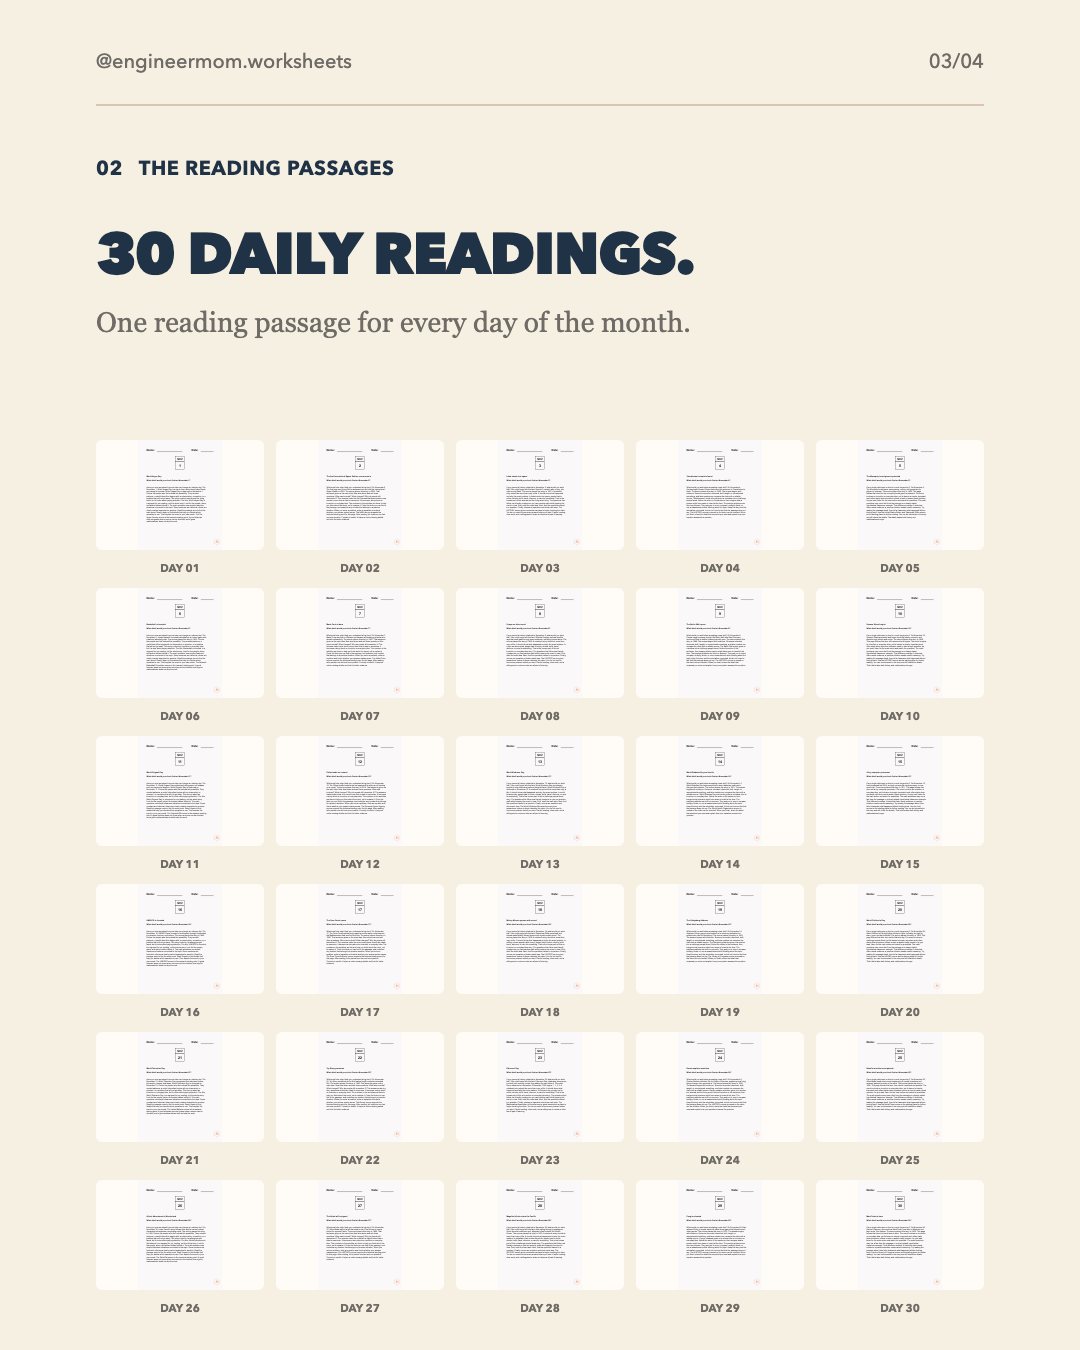
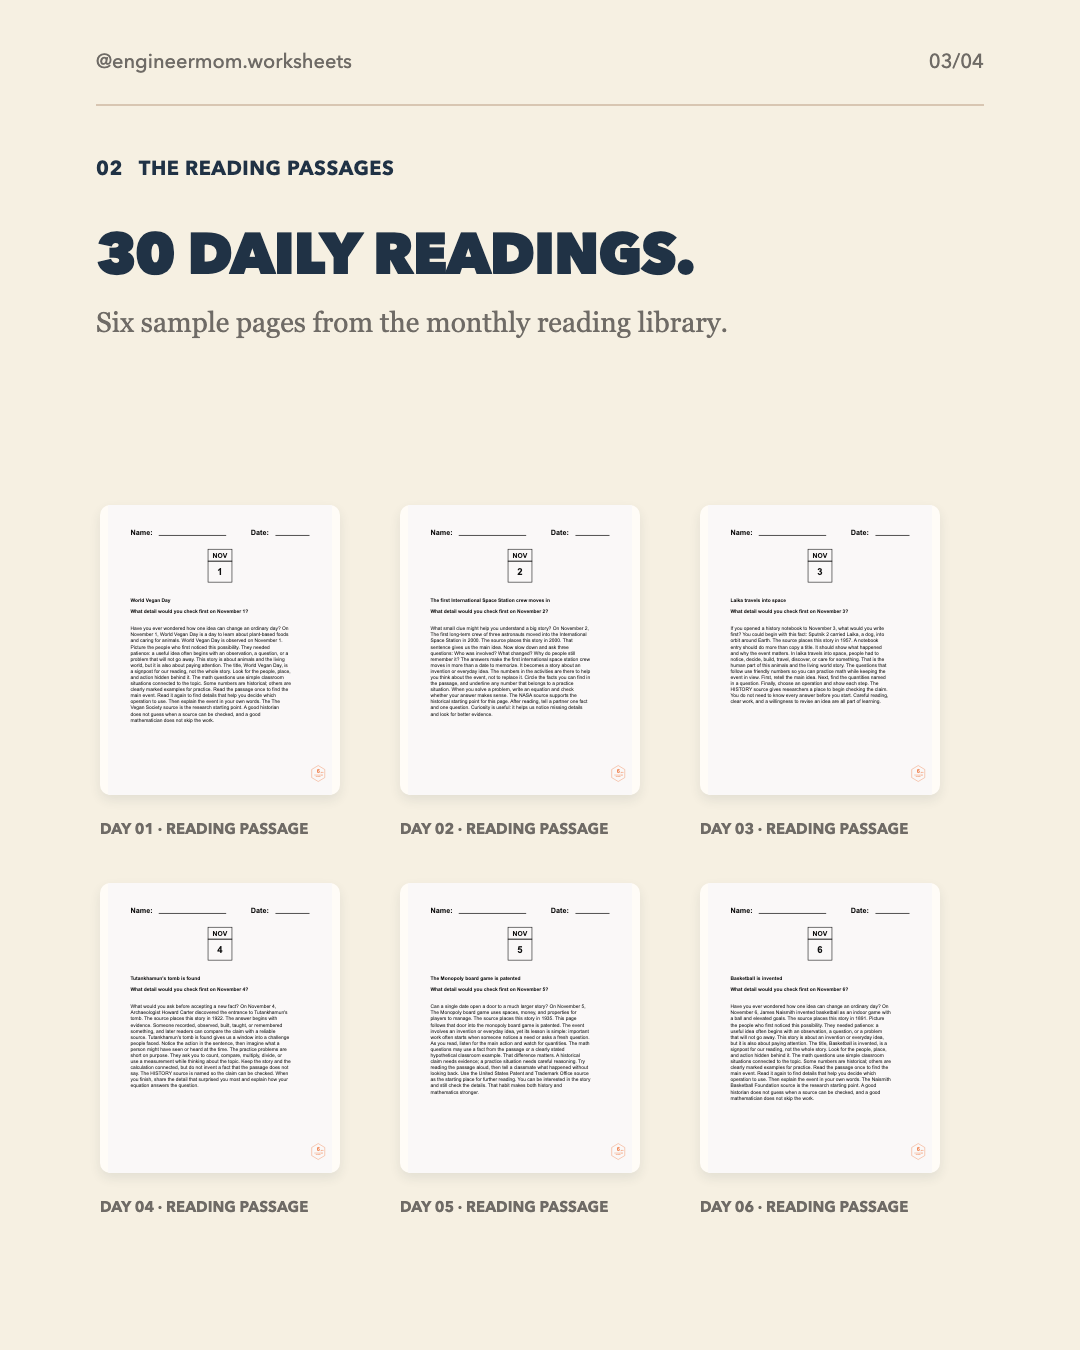
fix: keep six reading samples in product carousel

diff --git a/social/product-carousel-template/README.md b/social/product-carousel-template/README.md
@@ -9,7 +9,7 @@ This is the reusable monthly Product Carousel for `@engineermom.worksheets`.
 - Palette: `#203245`, `#D8C6B2`, `#F6F0E2`.
 - Slide 1: seasonal family-learning scene, monthly cover, reading passage, Level 1, and Level 3.
 - Slide 2: six packet pages in two rows: Level 1, Level 2, Level 3.
-- Slide 3: the complete monthly reading library, with one reading-passage page for every day in the month (28–31 pages, depending on the month).
+- Slide 3: six representative reading-passage pages. The title shows the full monthly count: `30 DAILY READINGS.` or `31 DAILY READINGS.` depending on the month.
 - Slide 4: fixed profile CTA using the back-view profile asset and link-in-bio language.
 - Worksheet cards preserve the full page and use a small `10px` corner radius; no answer key is exposed in the Cover preview.
 
@@ -34,7 +34,8 @@ The build reads the generated monthly worksheet SVGs from
 `reports/<month>-worksheet-pages/` and the month cover from
 `output/worksheet-cover/<month>-worksheet-cover.png`.
 
-The reading-library slide uses a compact contact-sheet layout so the full
-month is represented without cropping source pages. The output is review-only
-until a human confirms the assets and copy. The spreadsheet row for each
-variant is the scheduling source of truth.
+The reading-library slide uses the original six-card layout. The title carries
+the full monthly count while the six source-backed pages provide a readable
+sample of the library. The output is review-only until a human confirms the
+assets and copy. The spreadsheet row for each variant is the scheduling source
+of truth.

diff --git a/docs/product-carousel-workflow.md b/docs/product-carousel-workflow.md
@@ -29,10 +29,11 @@ The renderer reads:
 - fixed scene/profile assets under `social/product-carousel-template/media/`
 
 It writes two directories, each containing four 1080×1350 PNG slides and a
-`manifest.json`. Slide 2 uses source-backed worksheet pages. Slide 3 uses a
-compact contact sheet containing the complete monthly reading library: 28–31
-daily reading passages, depending on the month. The renderer discovers the
-available reading-passage files and records their count in the manifest.
+`manifest.json`. Slide 2 uses source-backed worksheet pages. Slide 3 discovers
+the full monthly reading-passage count and uses it only in the title (`30 DAILY
+READINGS.` or `31 DAILY READINGS.`); the visual keeps six readable sample pages
+in the original six-card layout. The manifest records both the full count and
+the six-page sample.
 Answer-key pages are never rendered into public slides. The output is
 review-only and requires human QA before publishing.
 

diff --git a/skills/product-carousel/SKILL.md b/skills/product-carousel/SKILL.md
@@ -35,6 +35,6 @@ constraints. It does not publish to Instagram.
 - Do not show answer-key pages in the public carousel.
 - Preserve worksheet page proportions; never crop worksheet content.
 - Keep Slide 2 and Slide 3 source-backed by the month packet.
-- Slide 3 must represent the complete monthly reading library: 28–31 daily reading passages, discovered from the available `NN-reading-passage.svg` assets rather than hard-coded to a sample count.
+- Slide 3 title must represent the complete monthly reading library: `30 DAILY READINGS.` or `31 DAILY READINGS.` based on the discovered `NN-reading-passage.svg` count. The visual remains the original six readable sample cards.
 - Do not invent sale/free claims for the campaign-aligned variant.
 - Human review is required before publication.
